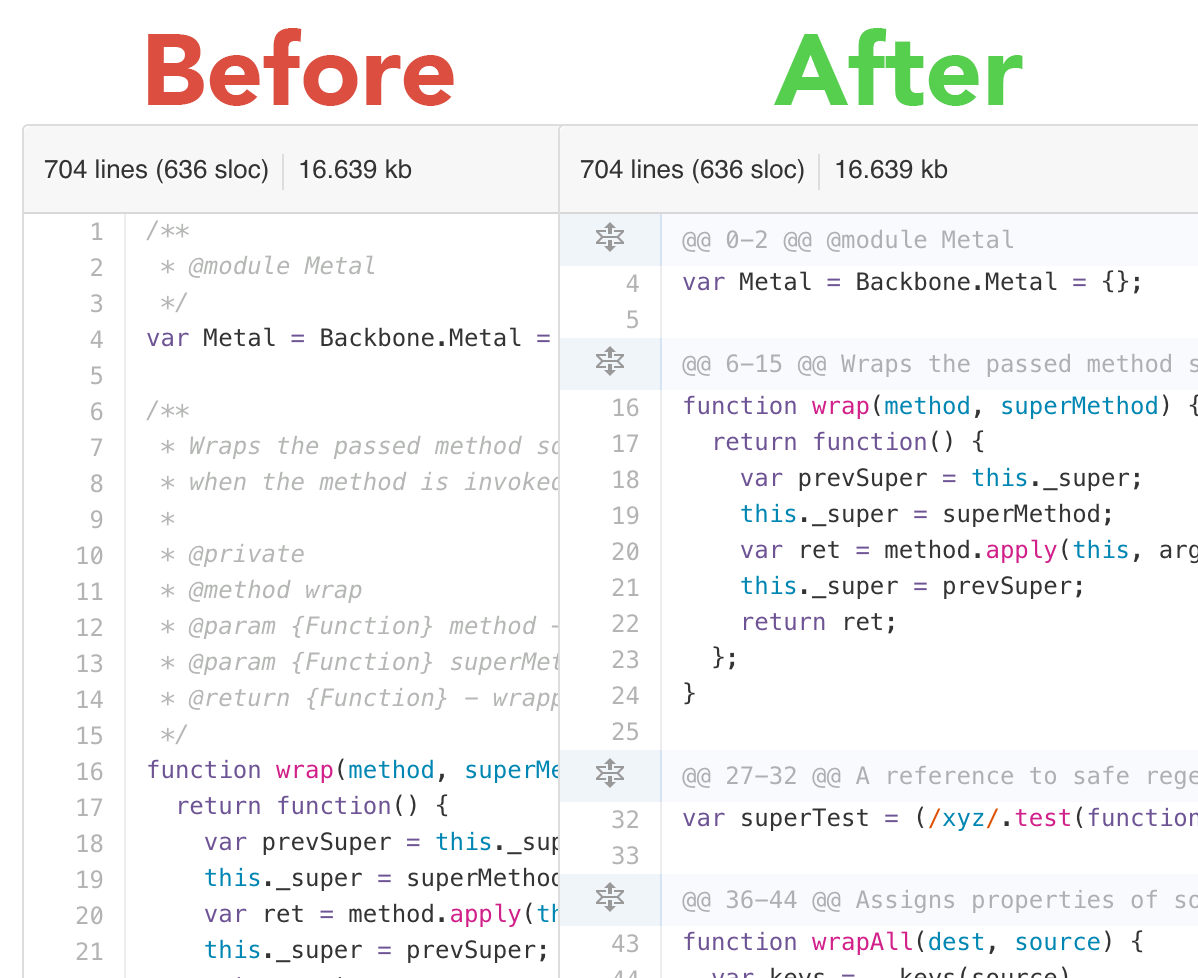
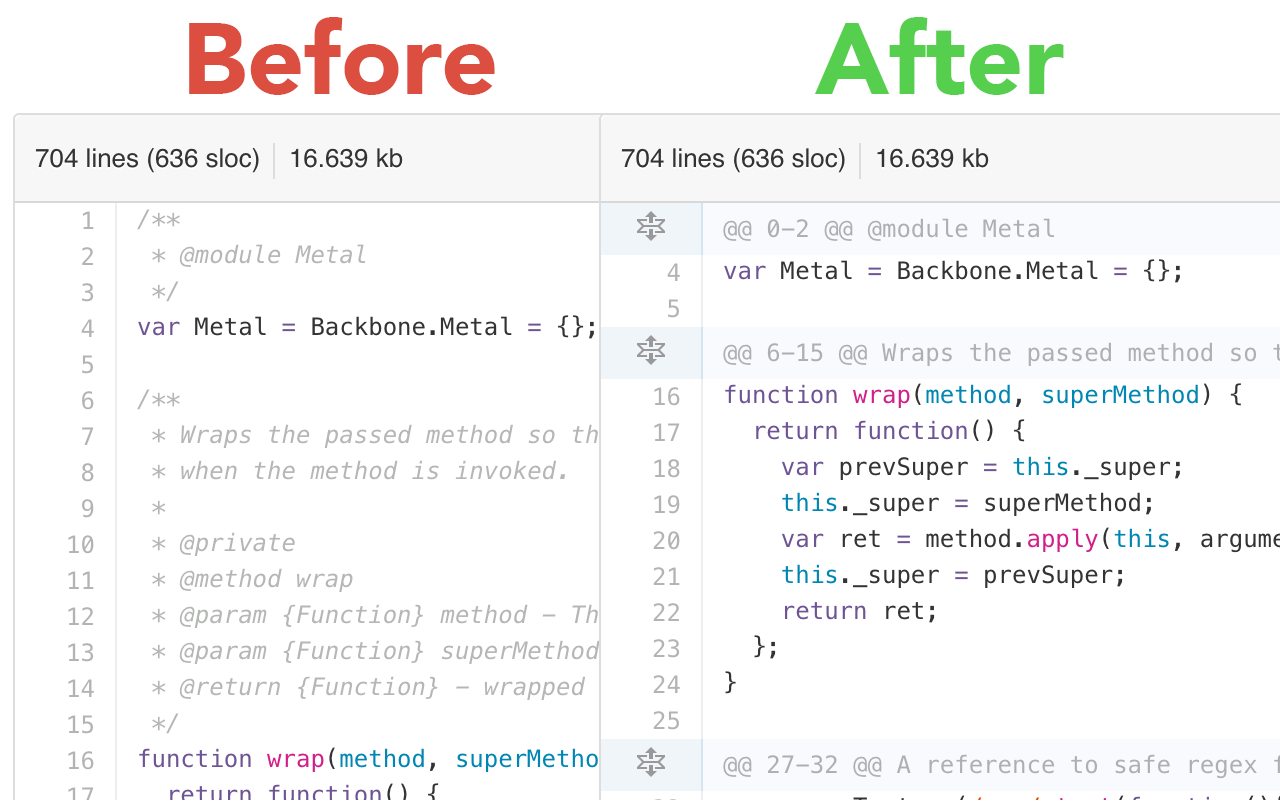
Correct sreenshot size

Changed region(s): [[0.0, 0.0, 1.0, 1.0], [0.1235, 0.3125, 0.4633, 0.5], [0.9883, 0.5312, 1.0, 0.5938]]

diff --git a/README.md b/README.md
@@ -3,7 +3,7 @@ Github Collapse Comments
 
 > Chrome extension - Collapse block comments from source viewer
 
-<img src="screenshot.png" width="599">
+<img src="screenshot.png" width="640">
 
 ## License
 
